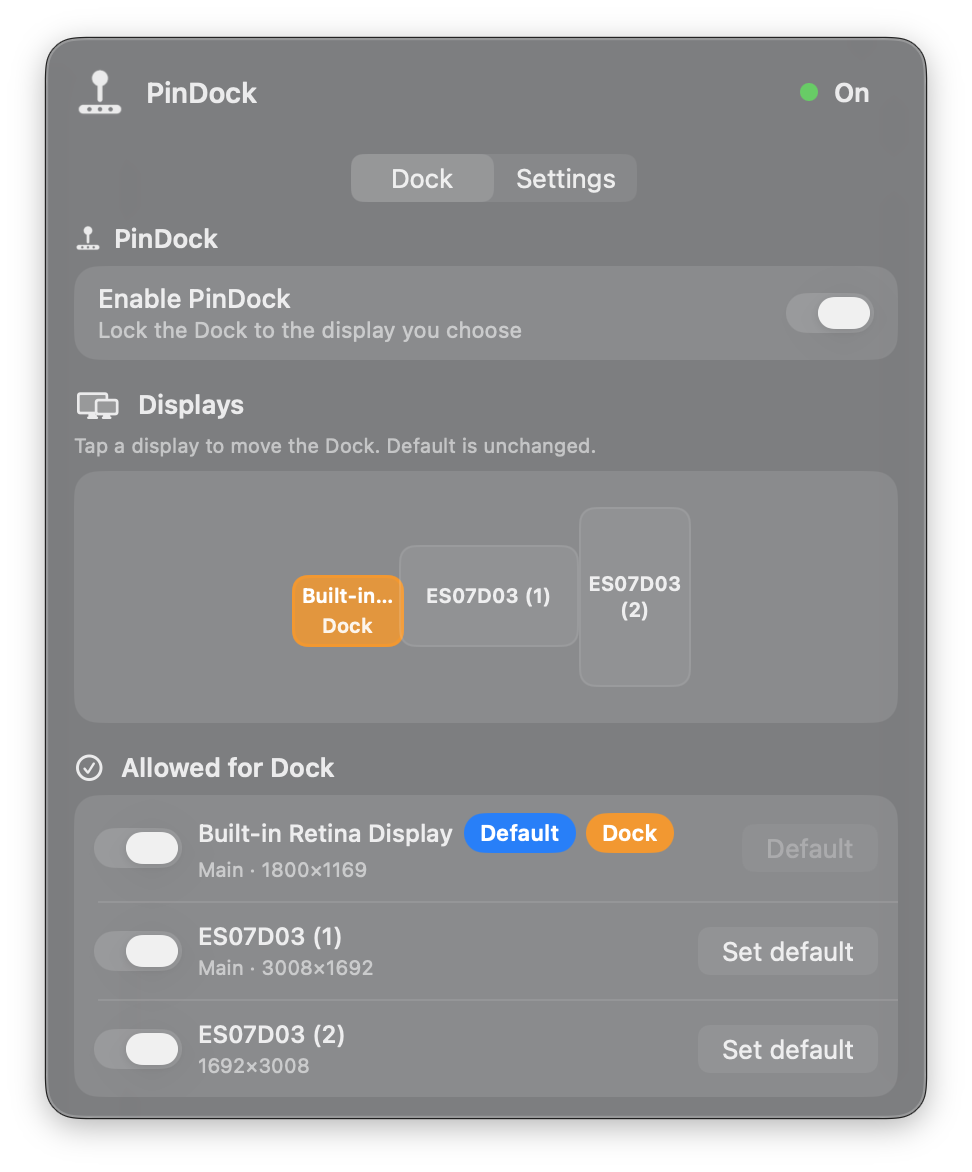
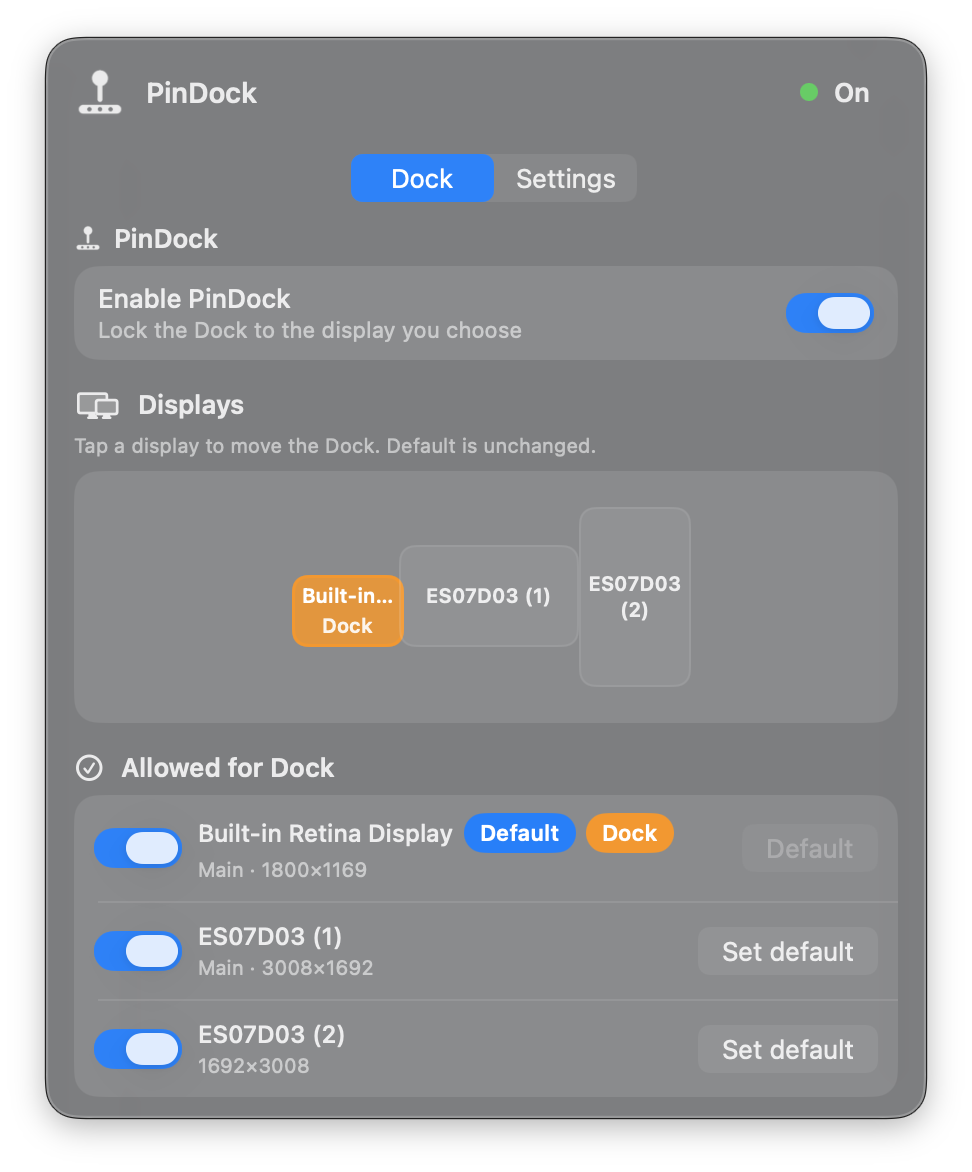
Fix README menubar shots: blue switches, theme and language
Preview window is key so toggles match the app. Appearance docs now
mention theme and language.

diff --git a/Sources/PinDock/AppDelegate.swift b/Sources/PinDock/AppDelegate.swift
@@ -80,6 +80,13 @@ final class AppDelegate: NSObject, NSApplicationDelegate, NSPopoverDelegate, NSW
     /// Borderless floating window with the real SettingsView (for README screenshots).
     private var previewWindow: NSWindow?
 
+    /// Borderless windows cannot become key unless subclassed — needed so
+    /// switches draw the same blue accent as the real (key) app window.
+    private final class PreviewWindow: NSWindow {
+        override var canBecomeKey: Bool { true }
+        override var canBecomeMain: Bool { true }
+    }
+
     private func showUIPreviewWindow() {
         let panelW: CGFloat = SettingsView.compactPanelSize.width
         let panelH: CGFloat = SettingsView.compactPanelSize.height
@@ -88,10 +95,10 @@ final class AppDelegate: NSObject, NSApplicationDelegate, NSPopoverDelegate, NSW
         let hosting = NSHostingController(rootView: root)
         hosting.view.frame = NSRect(x: 0, y: 0, width: panelW, height: panelH)
 
-        // Borderless panel so screenshots match the real menu-bar popover (no traffic lights).
-        let window = NSPanel(
+        // Borderless but key — screenshots must show active blue switches, not inactive gray.
+        let window = PreviewWindow(
             contentRect: NSRect(x: 0, y: 0, width: panelW, height: panelH),
-            styleMask: [.borderless, .fullSizeContentView, .nonactivatingPanel],
+            styleMask: [.borderless, .fullSizeContentView],
             backing: .buffered,
             defer: false
         )
@@ -99,7 +106,6 @@ final class AppDelegate: NSObject, NSApplicationDelegate, NSPopoverDelegate, NSW
         window.isOpaque = false
         window.backgroundColor = .clear
         window.hasShadow = true
-        window.isFloatingPanel = true
         window.level = .floating
         window.collectionBehavior = [.canJoinAllSpaces, .fullScreenAuxiliary]
         window.contentViewController = hosting
@@ -109,6 +115,10 @@ final class AppDelegate: NSObject, NSApplicationDelegate, NSPopoverDelegate, NSW
         window.makeKeyAndOrderFront(nil)
         NSApp.activate(ignoringOtherApps: true)
         previewWindow = window
+        DispatchQueue.main.asyncAfter(deadline: .now() + 0.35) {
+            window.makeKeyAndOrderFront(nil)
+            NSApp.activate(ignoringOtherApps: true)
+        }
         NSLog("PinDock: UI preview window open (for screenshots)")
     }
 

diff --git a/Sources/PinDock/SettingsView.swift b/Sources/PinDock/SettingsView.swift
@@ -14,8 +14,7 @@ struct SettingsView: View {
         case settings
     }
 
-    @State private var compactTab: CompactTab =
-        CommandLine.arguments.contains("--ui-preview-settings") ? .settings : .dock
+    @State private var compactTab: CompactTab = .dock
 
     /// Wide enough that “Show PinDock” + “Menu bar and App” stay on one row.
     static let compactPanelSize = CGSize(width: 440, height: 540)
@@ -36,6 +35,9 @@ struct SettingsView: View {
         }
         .onAppear {
             state.refresh()
+            if CommandLine.arguments.contains("--ui-preview-settings") {
+                compactTab = .settings
+            }
             if state.autoCheckForUpdates {
                 state.checkForUpdates(force: false)
             }

diff --git a/README.md b/README.md
@@ -41,7 +41,7 @@
 </p>
 
 <p align="center">
-  <em>Settings — appearance, Dock auto-hide, Move Back, wake restore</em>
+  <em>Settings — Appearance (theme, language), Dock auto-hide, Move Back</em>
 </p>
 
 <p align="center">
@@ -79,7 +79,7 @@ PinDock keeps it where **you** want it — quietly, with no account and no ads.
 - 🚫 **Block list** — forbid the Dock on specific screens  
 - 💤 **Wake / plug** — optional restore to default  
 - 🙈 **Dock auto-hide** — same on/off as System Settings → Desktop & Dock  
-- 🎨 **Appearance** — menu bar, app window, or both · Light / Dark / System  
+- 🎨 **Appearance** — menu bar, app window, or both. Theme (Light / Dark / System) and language live here too.  
 - 📌 **Menu bar** — Control Center–style popover (click outside to dismiss)
 
 ---
